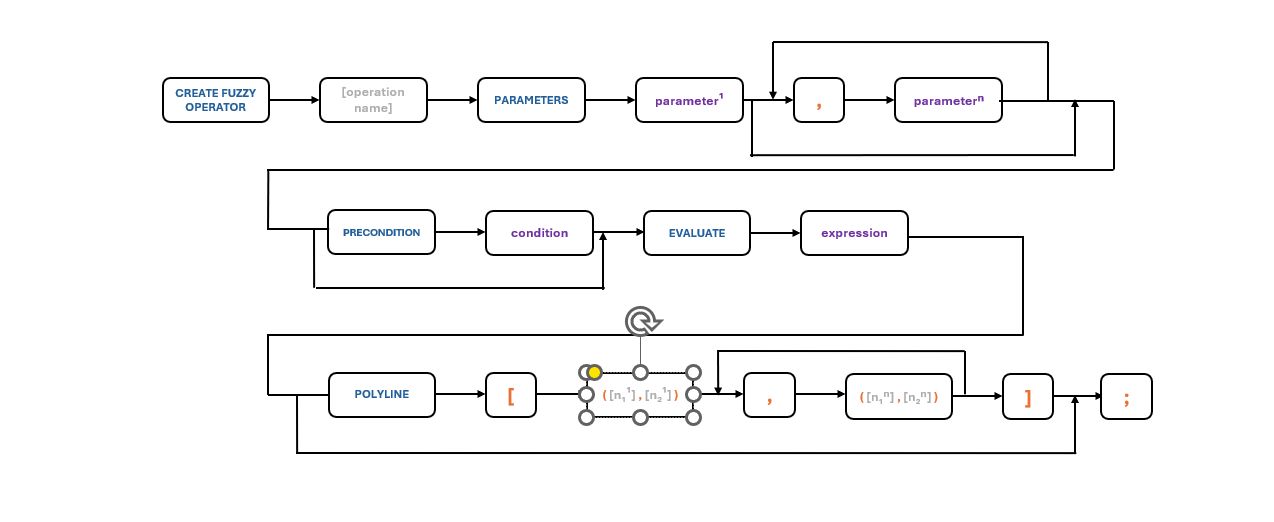
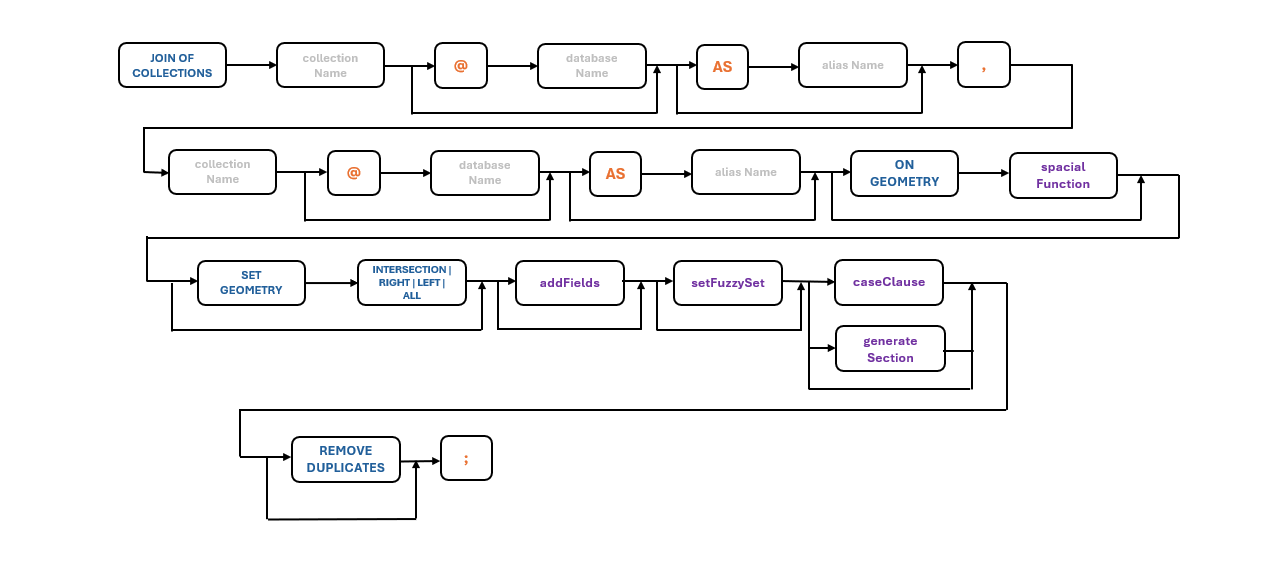
nn

diff --git a/languageSpecification/joinOfCollections.md b/languageSpecification/joinOfCollections.md
@@ -1,0 +1,47 @@
+# Join Of Collections instruction
+
+Joins two collections via cartesian product, with optional filtering and transformation.
+
+The first collection is said as *left collection*, and second collection is *right collection*.
+
+Given a couple *(l, r)* where *l* is the alias of a document the left collection, and *r* is the alias of a document from the right collection, the instruction create a new document with the fields *l* and *r* whose value is, respectively, the document *l*, and the document *l*.
+
+## EBNF Notation
+    joinOfCollections ::= JOIN OF COLLECTIONS 
+                            id¹@id² AS id³, id¹@id² AS id⁴
+                            [ON GEOMETRY spatialFunctionRule]*
+                            [SET GEOMETRY (INTERSECTION|RIGHT|LEFT|ALL)]*
+                            [addFieldsRule]*
+                            [setFuzzySetsRule]*
+                            [caseClauseRule|generateSectionRule]*
+                            [REMOVE DUPLICATES]* ;
+
+## Syntax Diagram
+![JoinOfCollections instruction Syntax!](/languageSpecification/.assets/images/join_of_collections.jpg "Join Of Collections Syntax Diagram") 
+
+## Semantics
+* The `id¹` token represents the collection name.
+* The `id²` token represents the database name.
+* The `id³` token represents the alias of the left collection.
+* The `id⁴` token represents the alias of the right collection.
+* The optional `ON GEOMETRY` clause specifies a spatial condition.
+* The optional `SET GEOMETRY` clause specifies the geometry of the new document.
+* The optional `addFields` clause adds extra fields to the new document.
+* The optional `setFuzzySets` clause sets which fuzzy sets from the source documents to keep.
+* The optional `caseClause` or `generateSection` work exactly as for the FILTER instruction.
+* The optional `REMOVE DUPLICATES` clause eliminates duplicate documents from the result.
+
+## Examples
+      JOIN OF COLLECTIONS coll1@db1 AS ld, coll2@db2 AS rd;
+      JOIN OF COLLECTIONS parks@milano AS left, bikes@milano AS right
+          ON GEOMETRY INTERSECT
+          SET GEOMETRY ALL
+          REMOVE DUPLICATES;
+
+## Issues
+
+## References
+For the *token list specification* see description [tokenList.md](/languageSpecification/tokenList.md) file.
+
+---
+¹ Not covered by the course
